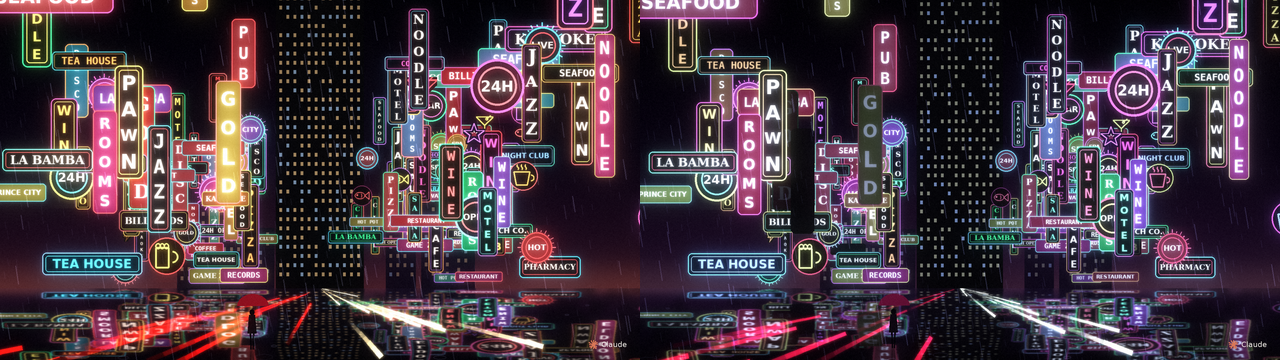
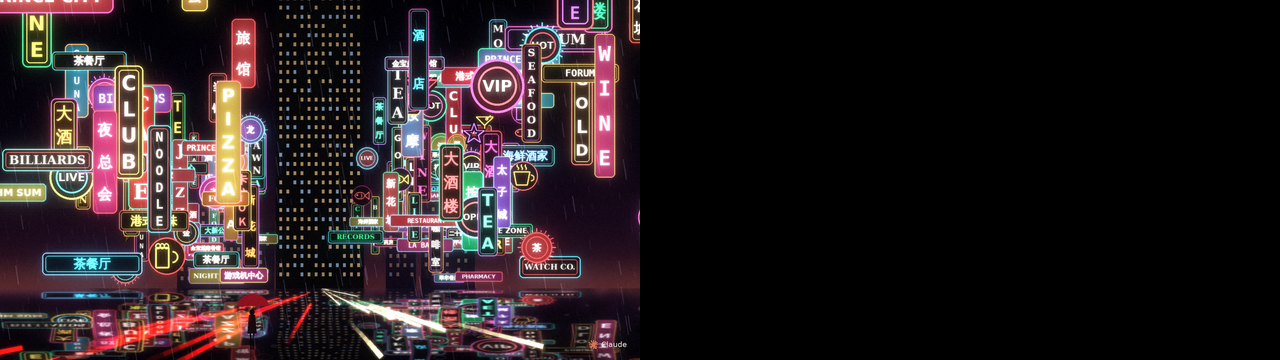
HK scene: mix Chinese and English signs
Claude-Session: https://claude.ai/code/session_01VdfstdBLkaf3oZ95Mfc4bo

diff --git a/music_video/render.py b/music_video/render.py
@@ -700,6 +700,12 @@ HK_WORDS_H = ["PUB & DISCO", "RESTAURANT", "PHARMACY", "WATCH CO.", "SEAFOOD", "
               "PRINCE CITY", "FORUM", "RED LIPS BAR", "LA BAMBA", "NIGHT CLUB", "HOT POT", "DIM SUM",
               "TEA HOUSE", "COFFEE", "BOOKS", "RECORDS", "BILLIARDS", "24H OPEN"]
 HK_WORDS_R = ["OPEN", "24H", "VIP", "LIVE", "BAR", "SPA", "FUN", "HOT", "CITY", "GOLD"]
+# 中文招牌用语（和英文各占一半，混排）
+HK_ZH_V = ["酒店", "茶餐厅", "卡拉OK", "夜总会", "按摩", "当铺", "海鲜酒家", "龙凤茶楼", "金铺", "药房", "旅馆",
+           "粥面", "烧味", "咖啡室", "桑拿", "新花城", "太子城", "大酒楼"]
+HK_ZH_H = ["海鲜酒家", "翠华餐厅", "新花城", "太子城", "茶餐厅", "卡拉OK夜总会", "金宝越南餐馆", "龙凤大酒楼",
+           "同昌商业大厦", "二十四小时营业", "游戏机中心", "港式烧味", "药房", "大新公司"]
+HK_ZH_R = ["福", "酒", "营业", "24小时", "茶", "喜", "龙", "金", "夜"]
 HK_ICONS = ["fish", "crown", "star", "cocktail", "note", "cup", "heart", "bolt", "moon", "beer"]
 HK_COLS = [PINK, CYAN, RED, AMBER, GREEN, BLUE, ORANGE, PURPLE, (1.0, .15, .15), (.1, 1.0, .5), (1.0, .9, .3)]
 FONT_B = "/usr/share/fonts/truetype/dejavu/DejaVuSans-Bold.ttf"
@@ -741,12 +747,15 @@ def hk_make_sign(seed, kind, w, h, c1, c2, word, icon):
     box = [pad, pad, pad + w, pad + h]
     rad = max(3, int(min(w, h) * 0.2))
     lightbox = rng.random() < 0.4        # 灯箱（实心色块 + 白字）或 灯管（暗底 + 发光线条）
-    path = [FONT_B, FONT_SB, FONT_MB][int(rng.integers(3))]
+    cjk = any(ord(ch) > 0x2e80 for ch in word)
+    path = ZH if cjk else [FONT_B, FONT_SB, FONT_MB][int(rng.integers(3))]
 
     def text_c(txt, fpath, cx, cy, bw, bh, fill):
         f = fit_font(txt, fpath, bw, bh)
         bb = d.textbbox((0, 0), txt, font=f)
-        d.text((cx - (bb[0] + bb[2]) / 2, cy - (bb[1] + bb[3]) / 2), txt, font=f, fill=fill)
+        sw = max(1, int(lw * .4)) if cjk else 0     # 中文笔画细，加一点描边让灯管更饱满
+        d.text((cx - (bb[0] + bb[2]) / 2, cy - (bb[1] + bb[3]) / 2), txt, font=f, fill=fill,
+               stroke_width=sw, stroke_fill=fill)
 
     if kind in ("vblade", "hboard"):
         dp.rounded_rectangle(box, rad, fill=255)
@@ -782,7 +791,7 @@ def hk_make_sign(seed, kind, w, h, c1, c2, word, icon):
                 r1 = r0 * (1.14 if k % 2 else 1.24)
                 d.line([(cx + r0 * 1.04 * np.cos(a), cy + r0 * 1.04 * np.sin(a)),
                         (cx + r1 * np.cos(a), cy + r1 * np.sin(a))], fill=C1, width=max(1, lw - 1))
-        text_c(word, FONT_B, pad + w / 2, pad + h / 2, w * .62, h * .3, (255, 255, 255) if lightbox else WARM)
+        text_c(word, ZH if cjk else FONT_B, pad + w / 2, pad + h / 2, w * .62, h * .3, (255, 255, 255) if lightbox else WARM)
     else:                                 # 图形招牌
         m_ = icon_mask(icon, min(w, h) * .8, 0, lw=lw)
         sz = m_.shape[0]
@@ -866,7 +875,8 @@ def hk_setup():
             continue
         if abs(sx - vpx) < .075 * W + w / 2 and dpt < .78:      # 中间留一条缝给远处的高楼
             continue
-        word = {"vblade": HK_WORDS_V, "hboard": HK_WORDS_H, "round": HK_WORDS_R}.get(kind, [""])
+        word = {"vblade": HK_WORDS_V + HK_ZH_V, "hboard": HK_WORDS_H + HK_ZH_H,
+                "round": HK_WORDS_R + HK_ZH_R}.get(kind, [""])
         word = word[int(rng.integers(len(word)))] if kind != "icon" else ""
         icon = HK_ICONS[int(rng.integers(len(HK_ICONS)))] if kind == "icon" else None
         i1, i2 = rng.choice(len(HK_COLS), 2, replace=False)
